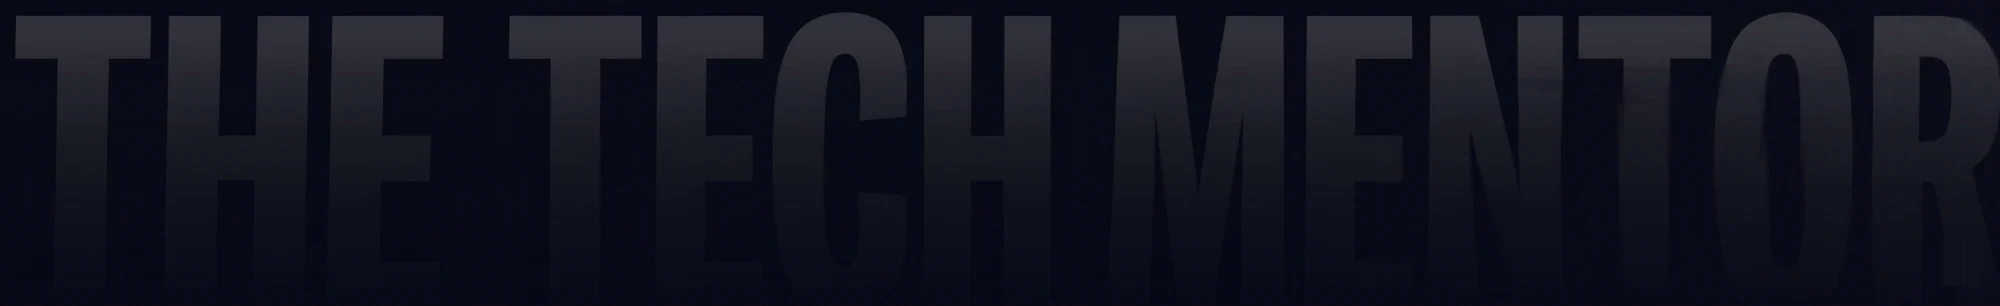
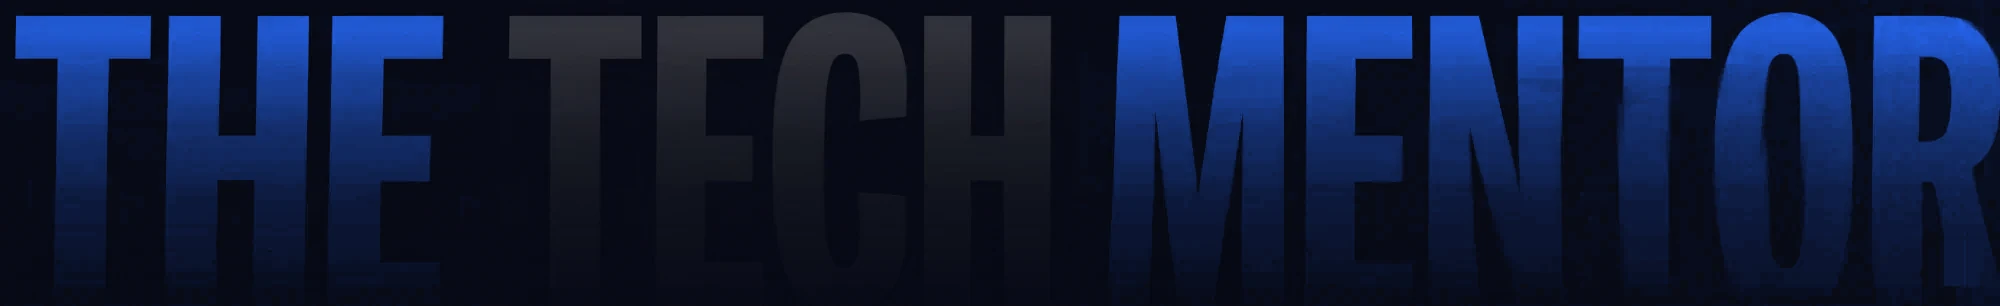
Footer wordmark: THE and MENTOR in brand blue
Claude-Session: https://claude.ai/code/session_01DKUCKdKXXEeeKV4hDoQ4Qc

diff --git a/blog/s4hana-2026-embedded-ewm-vs-decentral-ewm-matrix.html b/blog/s4hana-2026-embedded-ewm-vs-decentral-ewm-matrix.html
@@ -133,7 +133,7 @@
       <div><h4>Legal</h4><ul><li><a href="../privacy.html">Privacy</a></li><li><a href="../terms.html">Terms</a></li><li><a href="../refund.html">Refunds</a></li></ul></div>
     </div>
     <div class="wrap footer-bottom"><p>© 2026 theTechMentor. SAP and S/4HANA are trademarks of SAP SE; theTechMentor is not affiliated with SAP SE.</p></div>
-    <div class="footer-wordmark" aria-hidden="true"><img src="../images/footer-wordmark.webp" alt="" width="2000" height="306" loading="lazy" /></div>
+    <div class="footer-wordmark" aria-hidden="true"><img src="../images/footer-wordmark.webp?v=2" alt="" width="2000" height="306" loading="lazy" /></div>
   </footer>
   <script src="blog-leads.js"></script>
   <script>document.querySelector(".nav-toggle")?.addEventListener("click",function(){var l=document.querySelector(".nav-links");var o=l.classList.toggle("open");this.setAttribute("aria-expanded",String(o));});</script>

diff --git a/blog/sap-ewm-posc-losc-storage-control-deep-dive.html b/blog/sap-ewm-posc-losc-storage-control-deep-dive.html
@@ -133,7 +133,7 @@
       <div><h4>Legal</h4><ul><li><a href="../privacy.html">Privacy</a></li><li><a href="../terms.html">Terms</a></li><li><a href="../refund.html">Refunds</a></li></ul></div>
     </div>
     <div class="wrap footer-bottom"><p>© 2026 theTechMentor. SAP and S/4HANA are trademarks of SAP SE; theTechMentor is not affiliated with SAP SE.</p></div>
-    <div class="footer-wordmark" aria-hidden="true"><img src="../images/footer-wordmark.webp" alt="" width="2000" height="306" loading="lazy" /></div>
+    <div class="footer-wordmark" aria-hidden="true"><img src="../images/footer-wordmark.webp?v=2" alt="" width="2000" height="306" loading="lazy" /></div>
   </footer>
   <script src="blog-leads.js"></script>
   <script>document.querySelector(".nav-toggle")?.addEventListener("click",function(){var l=document.querySelector(".nav-links");var o=l.classList.toggle("open");this.setAttribute("aria-expanded",String(o));});</script>

diff --git a/blog/sap-ewm-slotting-rearrangement-optimization.html b/blog/sap-ewm-slotting-rearrangement-optimization.html
@@ -133,7 +133,7 @@
       <div><h4>Legal</h4><ul><li><a href="../privacy.html">Privacy</a></li><li><a href="../terms.html">Terms</a></li><li><a href="../refund.html">Refunds</a></li></ul></div>
     </div>
     <div class="wrap footer-bottom"><p>© 2026 theTechMentor. SAP and S/4HANA are trademarks of SAP SE; theTechMentor is not affiliated with SAP SE.</p></div>
-    <div class="footer-wordmark" aria-hidden="true"><img src="../images/footer-wordmark.webp" alt="" width="2000" height="306" loading="lazy" /></div>
+    <div class="footer-wordmark" aria-hidden="true"><img src="../images/footer-wordmark.webp?v=2" alt="" width="2000" height="306" loading="lazy" /></div>
   </footer>
   <script src="blog-leads.js"></script>
   <script>document.querySelector(".nav-toggle")?.addEventListener("click",function(){var l=document.querySelector(".nav-links");var o=l.classList.toggle("open");this.setAttribute("aria-expanded",String(o));});</script>

diff --git a/blog/sap-ewm-wave-management-wocr-configuration.html b/blog/sap-ewm-wave-management-wocr-configuration.html
@@ -131,7 +131,7 @@
       <div><h4>Legal</h4><ul><li><a href="../privacy.html">Privacy</a></li><li><a href="../terms.html">Terms</a></li><li><a href="../refund.html">Refunds</a></li></ul></div>
     </div>
     <div class="wrap footer-bottom"><p>© 2026 theTechMentor. SAP and S/4HANA are trademarks of SAP SE; theTechMentor is not affiliated with SAP SE.</p></div>
-    <div class="footer-wordmark" aria-hidden="true"><img src="../images/footer-wordmark.webp" alt="" width="2000" height="306" loading="lazy" /></div>
+    <div class="footer-wordmark" aria-hidden="true"><img src="../images/footer-wordmark.webp?v=2" alt="" width="2000" height="306" loading="lazy" /></div>
   </footer>
   <script src="blog-leads.js"></script>
   <script>document.querySelector(".nav-toggle")?.addEventListener("click",function(){var l=document.querySelector(".nav-links");var o=l.classList.toggle("open");this.setAttribute("aria-expanded",String(o));});</script>

diff --git a/blog/sap-ewm-yard-management-tu-dock-door-check-in-guide.html b/blog/sap-ewm-yard-management-tu-dock-door-check-in-guide.html
@@ -133,7 +133,7 @@
       <div><h4>Legal</h4><ul><li><a href="../privacy.html">Privacy</a></li><li><a href="../terms.html">Terms</a></li><li><a href="../refund.html">Refunds</a></li></ul></div>
     </div>
     <div class="wrap footer-bottom"><p>© 2026 theTechMentor. SAP and S/4HANA are trademarks of SAP SE; theTechMentor is not affiliated with SAP SE.</p></div>
-    <div class="footer-wordmark" aria-hidden="true"><img src="../images/footer-wordmark.webp" alt="" width="2000" height="306" loading="lazy" /></div>
+    <div class="footer-wordmark" aria-hidden="true"><img src="../images/footer-wordmark.webp?v=2" alt="" width="2000" height="306" loading="lazy" /></div>
   </footer>
   <script src="blog-leads.js"></script>
   <script>document.querySelector(".nav-toggle")?.addEventListener("click",function(){var l=document.querySelector(".nav-links");var o=l.classList.toggle("open");this.setAttribute("aria-expanded",String(o));});</script>

diff --git a/blog/sap-mm-automatic-po-creation-me59n-pr-automation.html b/blog/sap-mm-automatic-po-creation-me59n-pr-automation.html
@@ -131,7 +131,7 @@
       <div><h4>Legal</h4><ul><li><a href="../privacy.html">Privacy</a></li><li><a href="../terms.html">Terms</a></li><li><a href="../refund.html">Refunds</a></li></ul></div>
     </div>
     <div class="wrap footer-bottom"><p>© 2026 theTechMentor. SAP and S/4HANA are trademarks of SAP SE; theTechMentor is not affiliated with SAP SE.</p></div>
-    <div class="footer-wordmark" aria-hidden="true"><img src="../images/footer-wordmark.webp" alt="" width="2000" height="306" loading="lazy" /></div>
+    <div class="footer-wordmark" aria-hidden="true"><img src="../images/footer-wordmark.webp?v=2" alt="" width="2000" height="306" loading="lazy" /></div>
   </footer>
   <script src="blog-leads.js"></script>
   <script>document.querySelector(".nav-toggle")?.addEventListener("click",function(){var l=document.querySelector(".nav-links");var o=l.classList.toggle("open");this.setAttribute("aria-expanded",String(o));});</script>

diff --git a/blog/sap-mm-batch-management-s4hana-configuration.html b/blog/sap-mm-batch-management-s4hana-configuration.html
@@ -131,7 +131,7 @@
       <div><h4>Legal</h4><ul><li><a href="../privacy.html">Privacy</a></li><li><a href="../terms.html">Terms</a></li><li><a href="../refund.html">Refunds</a></li></ul></div>
     </div>
     <div class="wrap footer-bottom"><p>© 2026 theTechMentor. SAP and S/4HANA are trademarks of SAP SE; theTechMentor is not affiliated with SAP SE.</p></div>
-    <div class="footer-wordmark" aria-hidden="true"><img src="../images/footer-wordmark.webp" alt="" width="2000" height="306" loading="lazy" /></div>
+    <div class="footer-wordmark" aria-hidden="true"><img src="../images/footer-wordmark.webp?v=2" alt="" width="2000" height="306" loading="lazy" /></div>
   </footer>
   <script src="blog-leads.js"></script>
   <script>document.querySelector(".nav-toggle")?.addEventListener("click",function(){var l=document.querySelector(".nav-links");var o=l.classList.toggle("open");this.setAttribute("aria-expanded",String(o));});</script>

diff --git a/blog/sap-mm-consignment-procurement-mrko-settlement-411k.html b/blog/sap-mm-consignment-procurement-mrko-settlement-411k.html
@@ -129,7 +129,7 @@
       <div><h4>Legal</h4><ul><li><a href="../privacy.html">Privacy</a></li><li><a href="../terms.html">Terms</a></li><li><a href="../refund.html">Refunds</a></li></ul></div>
     </div>
     <div class="wrap footer-bottom"><p>© 2026 theTechMentor. SAP and S/4HANA are trademarks of SAP SE; theTechMentor is not affiliated with SAP SE.</p></div>
-    <div class="footer-wordmark" aria-hidden="true"><img src="../images/footer-wordmark.webp" alt="" width="2000" height="306" loading="lazy" /></div>
+    <div class="footer-wordmark" aria-hidden="true"><img src="../images/footer-wordmark.webp?v=2" alt="" width="2000" height="306" loading="lazy" /></div>
   </footer>
   <script src="blog-leads.js"></script>
   <script>document.querySelector(".nav-toggle")?.addEventListener("click",function(){var l=document.querySelector(".nav-links");var o=l.classList.toggle("open");this.setAttribute("aria-expanded",String(o));});</script>

diff --git a/blog/sap-mm-organisational-structure-s4hana.html b/blog/sap-mm-organisational-structure-s4hana.html
@@ -139,7 +139,7 @@
       <div><h4>Legal</h4><ul><li><a href="../privacy.html">Privacy</a></li><li><a href="../terms.html">Terms</a></li><li><a href="../refund.html">Refunds</a></li></ul></div>
     </div>
     <div class="wrap footer-bottom"><p>© 2026 theTechMentor. SAP and S/4HANA are trademarks of SAP SE; theTechMentor is not affiliated with SAP SE.</p></div>
-    <div class="footer-wordmark" aria-hidden="true"><img src="../images/footer-wordmark.webp" alt="" width="2000" height="306" loading="lazy" /></div>
+    <div class="footer-wordmark" aria-hidden="true"><img src="../images/footer-wordmark.webp?v=2" alt="" width="2000" height="306" loading="lazy" /></div>
   </footer>
   <script src="blog-leads.js"></script>
   <script>document.querySelector(".nav-toggle")?.addEventListener("click",function(){var l=document.querySelector(".nav-links");var o=l.classList.toggle("open");this.setAttribute("aria-expanded",String(o));});</script>

diff --git a/blog/sap-mm-pricing-procedure-schema-s4hana-guide.html b/blog/sap-mm-pricing-procedure-schema-s4hana-guide.html
@@ -135,7 +135,7 @@
       <div><h4>Legal</h4><ul><li><a href="../privacy.html">Privacy</a></li><li><a href="../terms.html">Terms</a></li><li><a href="../refund.html">Refunds</a></li></ul></div>
     </div>
     <div class="wrap footer-bottom"><p>© 2026 theTechMentor. SAP and S/4HANA are trademarks of SAP SE; theTechMentor is not affiliated with SAP SE.</p></div>
-    <div class="footer-wordmark" aria-hidden="true"><img src="../images/footer-wordmark.webp" alt="" width="2000" height="306" loading="lazy" /></div>
+    <div class="footer-wordmark" aria-hidden="true"><img src="../images/footer-wordmark.webp?v=2" alt="" width="2000" height="306" loading="lazy" /></div>
   </footer>
   <script src="blog-leads.js"></script>
   <script>document.querySelector(".nav-toggle")?.addEventListener("click",function(){var l=document.querySelector(".nav-links");var o=l.classList.toggle("open");this.setAttribute("aria-expanded",String(o));});</script>

diff --git a/blog/sap-mm-subcontracting-process-s4hana-special-stock-o.html b/blog/sap-mm-subcontracting-process-s4hana-special-stock-o.html
@@ -137,7 +137,7 @@
       <div><h4>Legal</h4><ul><li><a href="../privacy.html">Privacy</a></li><li><a href="../terms.html">Terms</a></li><li><a href="../refund.html">Refunds</a></li></ul></div>
     </div>
     <div class="wrap footer-bottom"><p>© 2026 theTechMentor. SAP and S/4HANA are trademarks of SAP SE; theTechMentor is not affiliated with SAP SE.</p></div>
-    <div class="footer-wordmark" aria-hidden="true"><img src="../images/footer-wordmark.webp" alt="" width="2000" height="306" loading="lazy" /></div>
+    <div class="footer-wordmark" aria-hidden="true"><img src="../images/footer-wordmark.webp?v=2" alt="" width="2000" height="306" loading="lazy" /></div>
   </footer>
   <script src="blog-leads.js"></script>
   <script>document.querySelector(".nav-toggle")?.addEventListener("click",function(){var l=document.querySelector(".nav-links");var o=l.classList.toggle("open");this.setAttribute("aria-expanded",String(o));});</script>

diff --git a/blog/sap-s4hana-2025-release-mm-ewm-changes.html b/blog/sap-s4hana-2025-release-mm-ewm-changes.html
@@ -135,7 +135,7 @@
       <div><h4>Legal</h4><ul><li><a href="../privacy.html">Privacy</a></li><li><a href="../terms.html">Terms</a></li><li><a href="../refund.html">Refunds</a></li></ul></div>
     </div>
     <div class="wrap footer-bottom"><p>© 2026 theTechMentor. SAP and S/4HANA are trademarks of SAP SE; theTechMentor is not affiliated with SAP SE.</p></div>
-    <div class="footer-wordmark" aria-hidden="true"><img src="../images/footer-wordmark.webp" alt="" width="2000" height="306" loading="lazy" /></div>
+    <div class="footer-wordmark" aria-hidden="true"><img src="../images/footer-wordmark.webp?v=2" alt="" width="2000" height="306" loading="lazy" /></div>
   </footer>
   <script src="blog-leads.js"></script>
   <script>document.querySelector(".nav-toggle")?.addEventListener("click",function(){var l=document.querySelector(".nav-links");var o=l.classList.toggle("open");this.setAttribute("aria-expanded",String(o));});</script>
